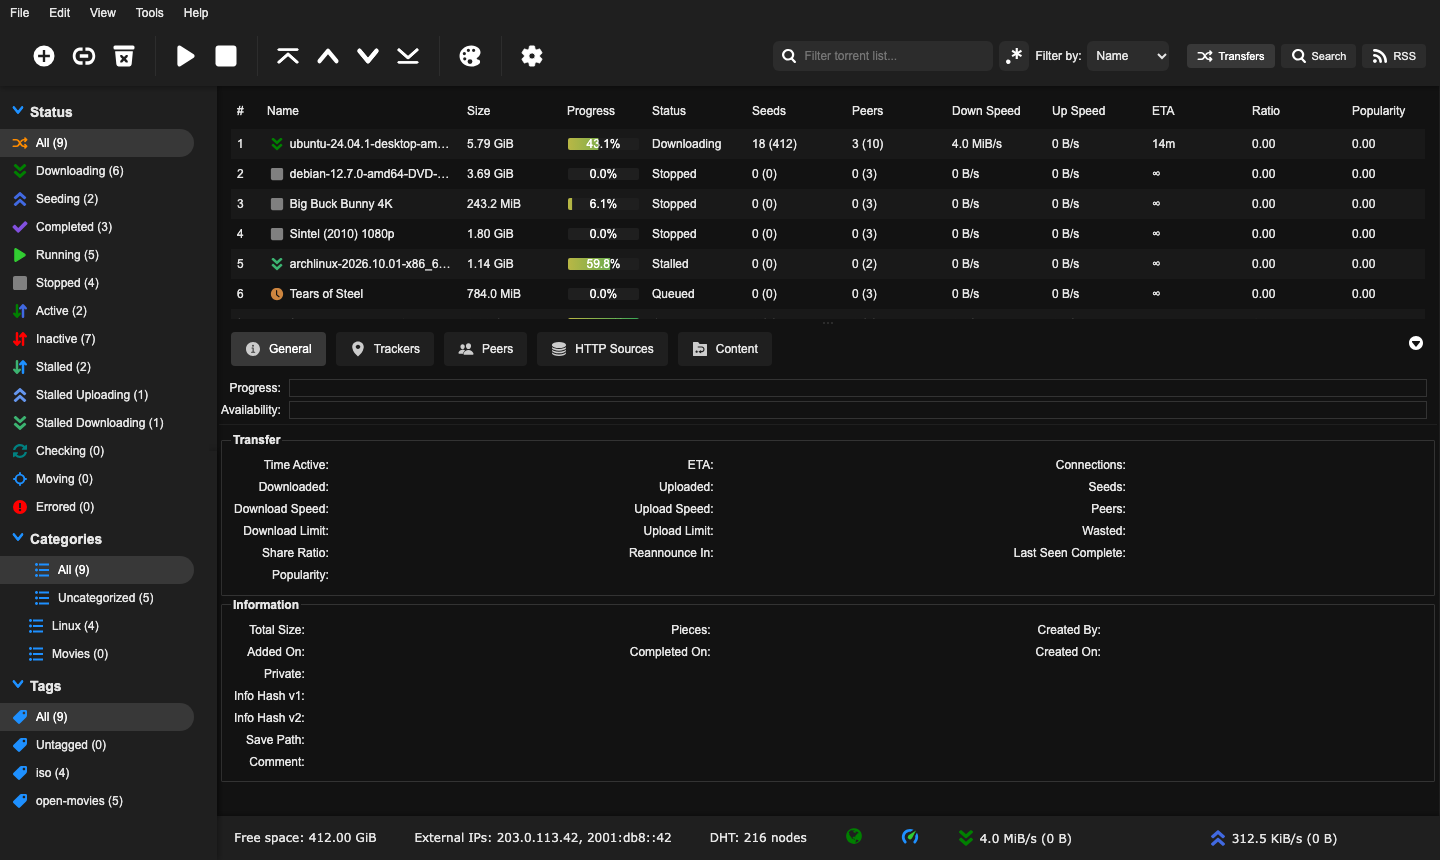
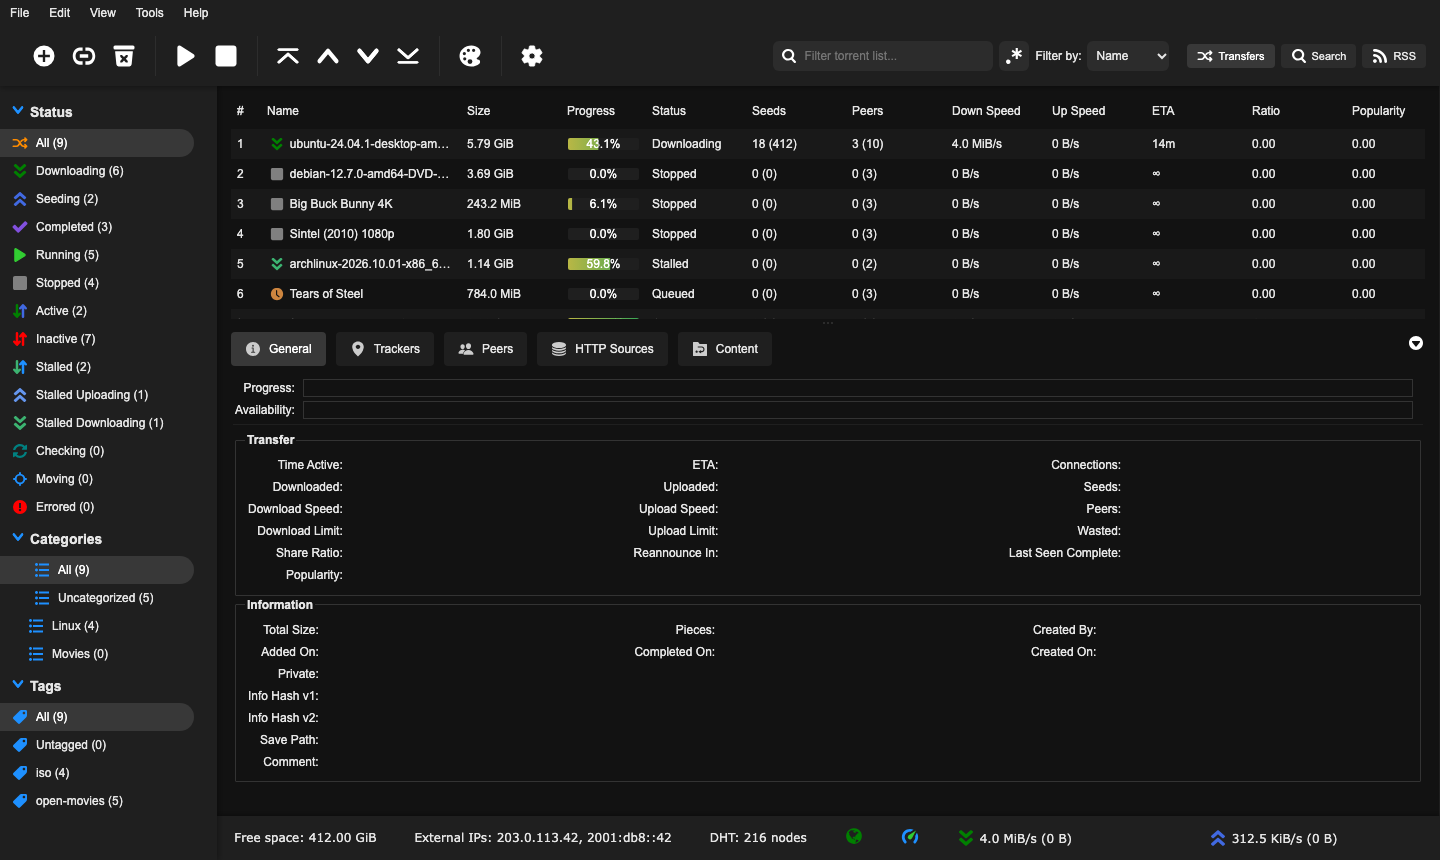
Continuous sidebar shadow; inset the properties panel
The sidebar's shadow is drawn by one box for its whole height instead of
two overlapping ones, which doubled it in the lower half. The properties
panel gets the same inset as the list, so its fieldsets no longer sit
against the sidebar. Main screenshot retaken.

diff --git a/css/ezqbit.css b/css/ezqbit.css
@@ -82,6 +82,11 @@
     padding: 6px 10px 0;
 }
 
+/* Same inset for the panel below the tabs, so its boxes do not sit against the sidebar */
+#propertiesPanel {
+    padding: 0 14px;
+}
+
 #Filters {
     padding-top: 8px;
 }
@@ -96,14 +101,9 @@
     overflow: visible;
 }
 
-#filtersColumn_handle,
-#filtersColumn_handle::after {
-    background: var(--theme-panel);
-    box-shadow: 1px 0 6px var(--theme-edge-shadow);
-}
-
 #filtersColumn_handle {
     anchor-name: --theme-sidebar-edge; /* the status bar starts here, see below */
+    background: var(--theme-panel);
     border: 0; /* so ::after spans its full width */
     /* keeps the shadow to the right side only */
     clip-path: inset(0 -8px calc(-1 * var(--theme-footer-height)) 0);
@@ -112,14 +112,14 @@
     z-index: 1;
 }
 
+/* One box for the whole height, so the shadow is a single unbroken strip */
 #filtersColumn_handle::after {
-    bottom: calc(-1 * var(--theme-footer-height));
+    background: var(--theme-panel);
+    box-shadow: 1px 0 6px var(--theme-edge-shadow);
     content: "";
-    left: 0;
+    inset: 0 0 calc(-1 * var(--theme-footer-height));
     pointer-events: none;
     position: absolute;
-    top: 50%; /* overlaps the handle, so there is no seam where the two meet */
-    width: 100%;
 }
 
 /* ---------------------------------------------------------------
